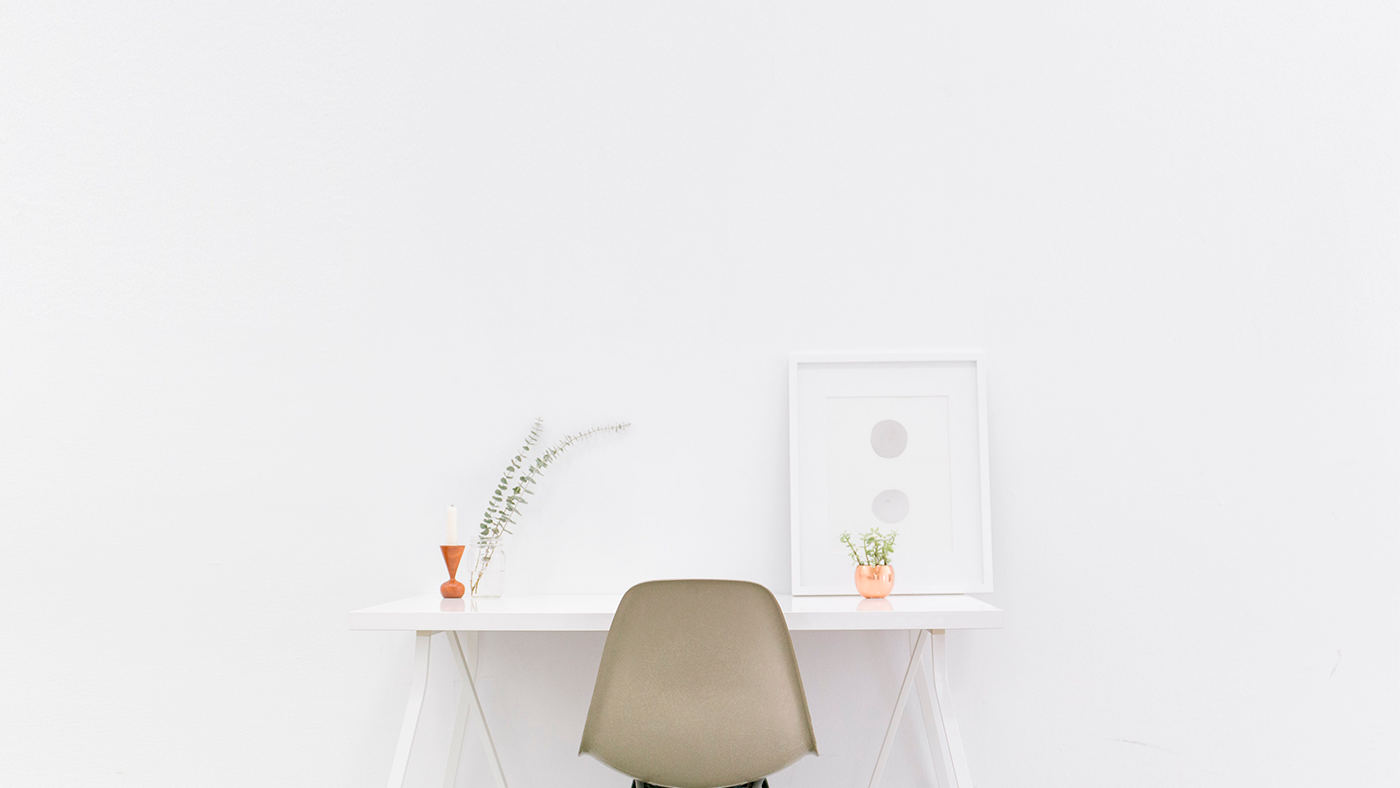
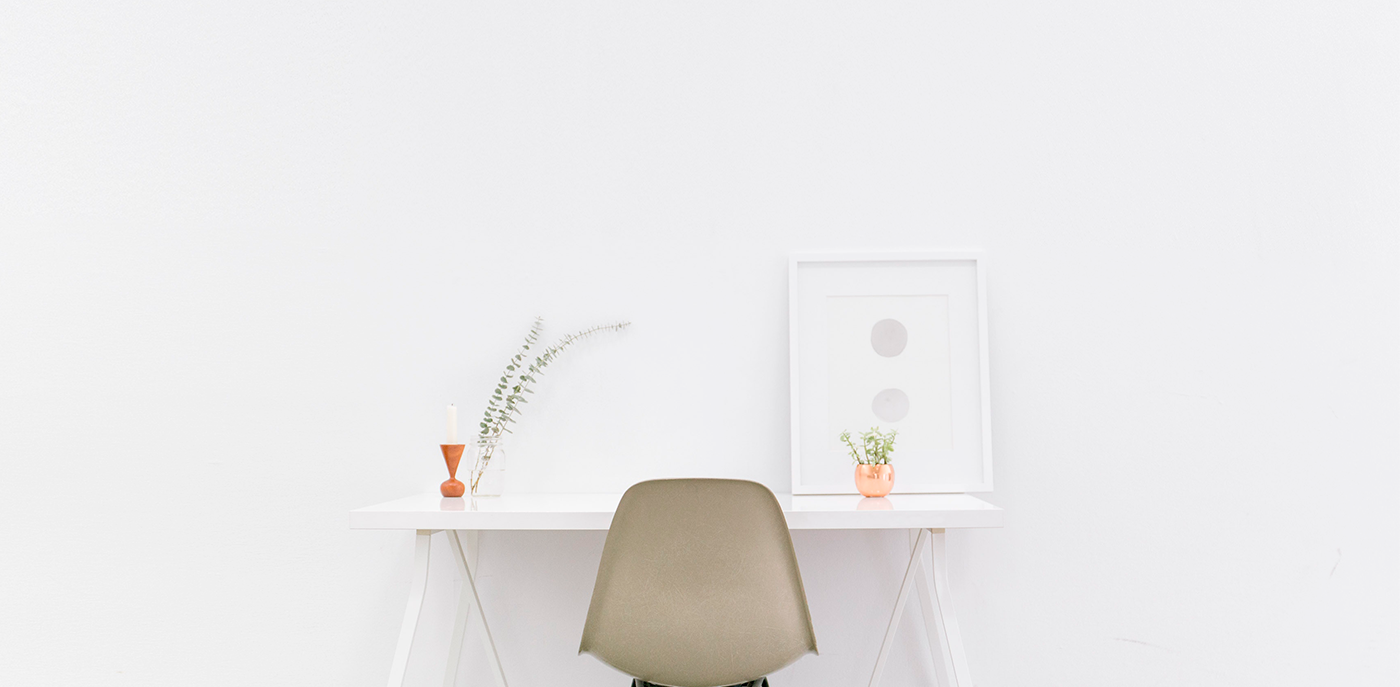
actualización

diff --git a/index.html b/index.html
@@ -4,8 +4,47 @@
     <meta charset="UTF-8">
     <meta name="viewport" content="width=device-width, initial-scale=1.0">
     <title>Creative & Clean</title>
+     <link rel="stylesheet" href="styles/style.css">
+
 </head>
 <body>
-    
+    <main>
+        <header>
+          <section class="head">
+          <h1>Creative & Clean</h1>
+          <p class="text1">LUXURY WORKSTATION WITH STYLE</p><br><br><br>
+          <button>view  →</button>
+          </section>
+        </header>
+
+
+        <section class="sec1">
+            <h2>MAKE YOUR WORKSTATION FUN WITH ENTERTAIMENT.</h2>
+                <P>Lorem ipsum, dolor sit amet consectetur adipisicing elit. Modi delectus quis fugiat quia maiores consectetur molestias qui. Dolorem repellendus quaerat dolor esse a nisi, voluptas explicabo voluptatem itaque laborum unde.</P>
+            <button>view  →</button>
+        </section>
+
+
+        <section class="sec2">
+            <h2>WORK ANYWHERE YOU LIKE, ANYWHERE YOU PREFER.</h2>
+            <P>Lorem ipsum dolor sit amet consectetur, adipisicing elit. Fuga provident, molestiae consequuntur consequatur qui eius excepturi molestias dolorem dolore dolorum delectus ea, blanditiis odio repudiandae voluptatum tempora sit numquam doloribus!</P>
+            <button>view  →</button>
+        </section>
+
+
+        <section class="imgsecu">
+         <h2>SUPLY OF UNMILITED RESOURCES...</h2><br>
+         <p>Lorem ipsum dolor sit amet consectetur adipisicing elit. Nam minus non ratione perferendis! Ex sed eius quae voluptatum consectetur nulla numquam laboriosam aut et possimus animi nam nisi, atque eligendi.</p>
+         <button>Check this out  →</button>
+        </section>
+
+
+        <footer>
+            <div>adress<br>
+                Creative & Clean <br>
+
+            </div>
+        </footer>
+    </main>
 </body>
 </html>

diff --git a/styles/style.css b/styles/style.css
@@ -1,0 +1,44 @@
+@import url('https://fonts.googleapis.com/css2?family=Delius&family=Roboto+Slab:wght@100..900&display=swap');
+
+* {
+  margin: 0;
+  padding: 0;
+  box-sizing: border-box;
+  font-family: "Roboto Slab", serif ;
+  
+}
+
+header{
+  background-image: url('../assets/img/bgHeader.png');
+  width: 100vw;
+  height: 80vh;
+  display: flex;
+  background-size: cover; /*la imagen ocupa todo el espacio */
+  background-position: center;
+  justify-content: center;
+  text-align: center;
+  align-items: center;
+ 
+
+  
+}
+
+
+h1{
+    font-size: 80px;
+    color: #ff8a41;
+    font-weight: 350;
+}
+
+.text1{
+    font-size: 30px;
+}
+
+button{
+    width: 100px;
+    height: 40px;
+    border-radius: 20px;
+    background-color: #ff8a41;
+    color: white;
+    border: none;
+}
